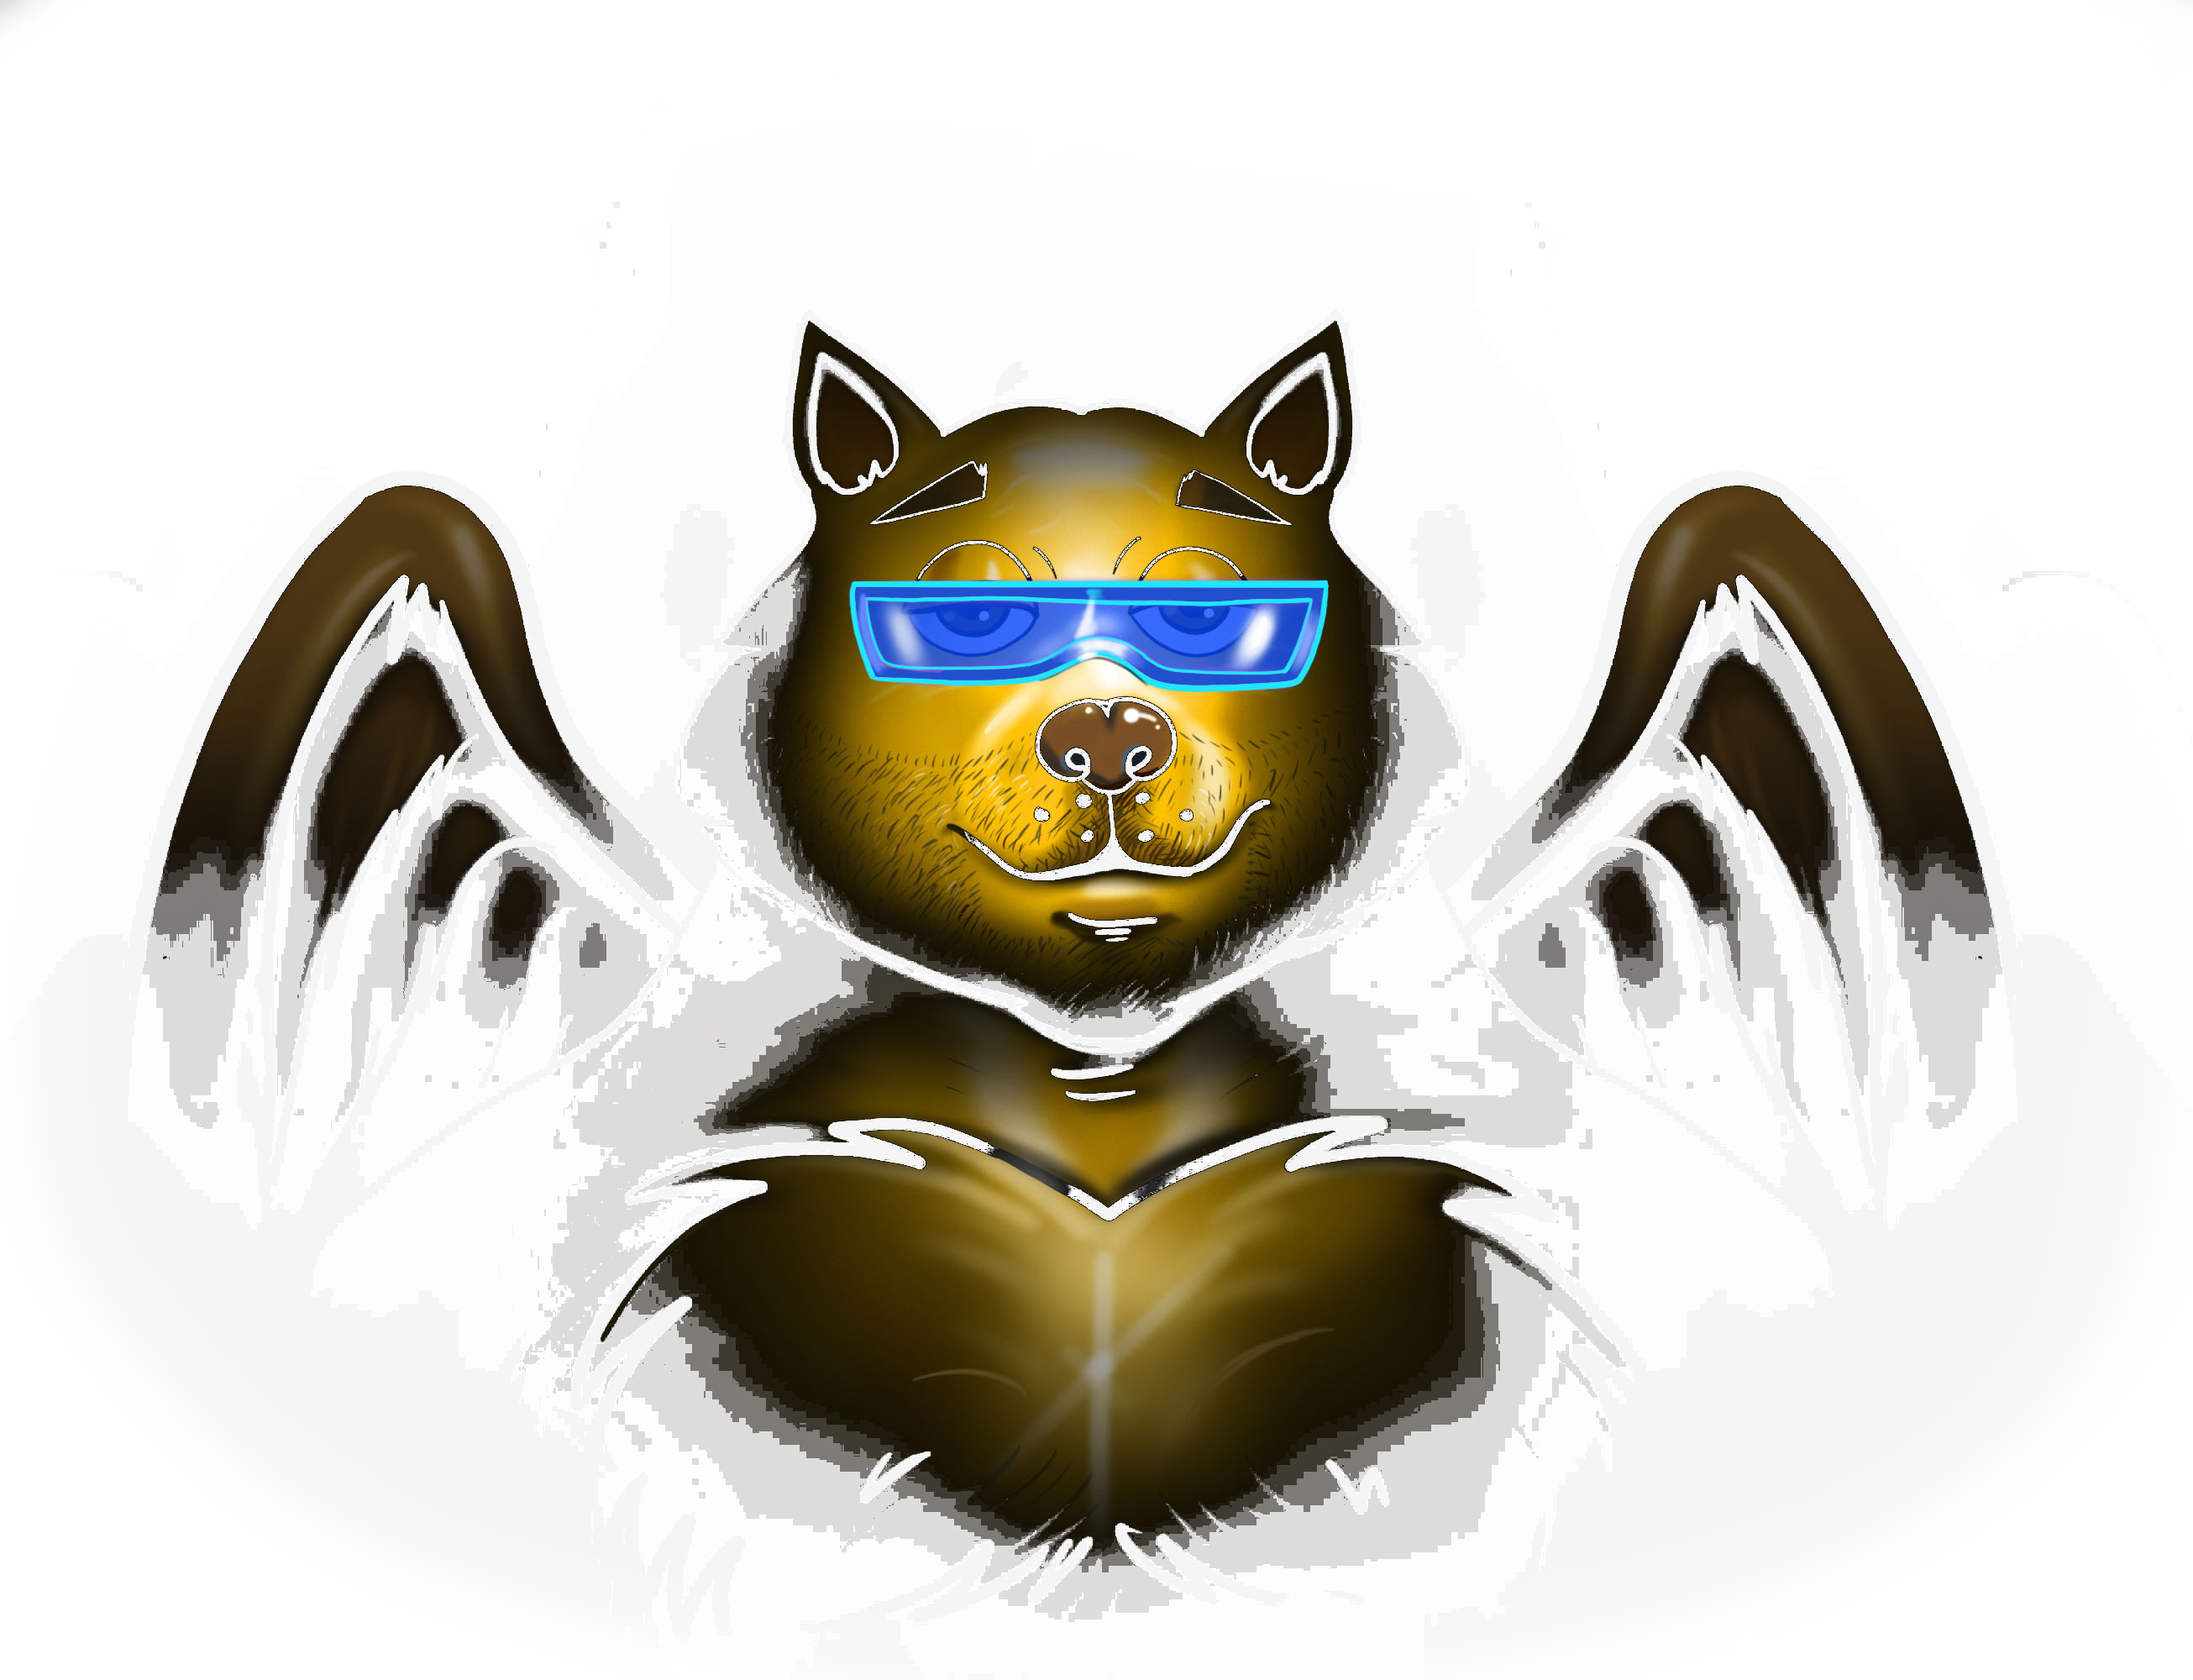
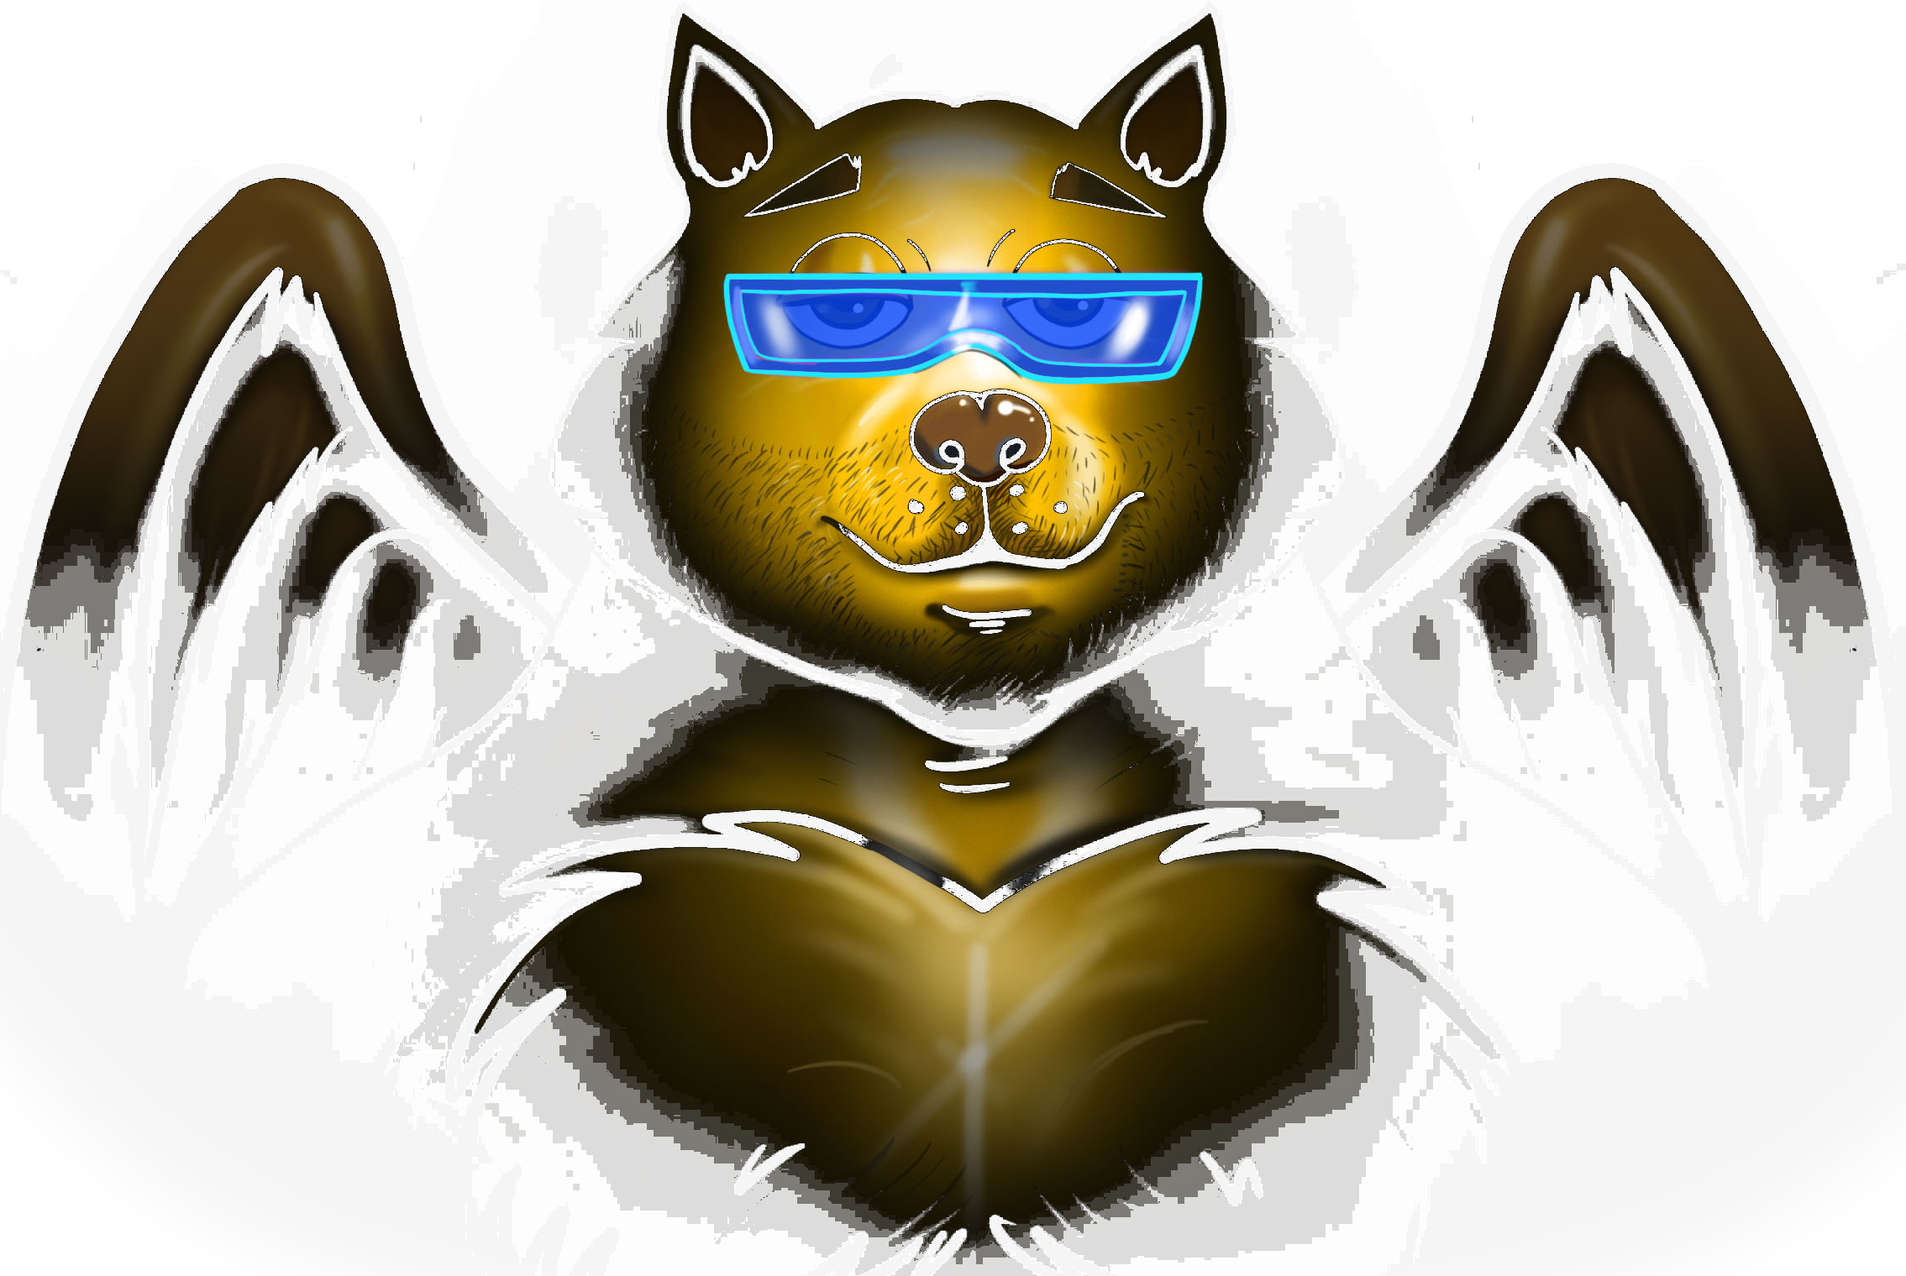
rovershades cropped margin-top 0px

diff --git a/index.html b/index.html
@@ -145,7 +145,7 @@
 						<div class="banner-text-wrap">
 							<div class="container d-block">
 								<div id="aboveVideo" class="row row-eq-height animate">
-									<div id="HalWSB" class="col-md-7 align-self-md-start align-self-start" style="margin-top: -80px;">
+									<div id="HalWSB" class="col-md-7 align-self-md-start align-self-start" style="margin-top: 0px;">
 										<img class="fadeInUp" src="images/rovershades.png" alt="" />
 									</div>
 									<div id="topText" class="col-md-5 align-self-md-start">
@@ -314,18 +314,16 @@
 
 			</div>
 		</div>
-		<div class="modal-footer">
-			  <!-- <button type="button" class="btn btn-primary">Save changes</button>
-			  <button type="button" class="btn btn-secondary" data-dismiss="modal">Close</button> -->
+		<!-- <div class="modal-footer">
 			</div>
 		  </div>
-		</div>
+		</div> -->
 	  </div>
 
-	<script>
+	<!-- <script>
 		//wow-animation
 		new WOW().init();
-	</script>
+	</script> -->
 			<!-- TODO: WHY: if we remove this, mobile popup behavior gets screwed -->
 			<!-- <script src="js/shooting-stars.js" type="text/javascript"></script> -->
 
